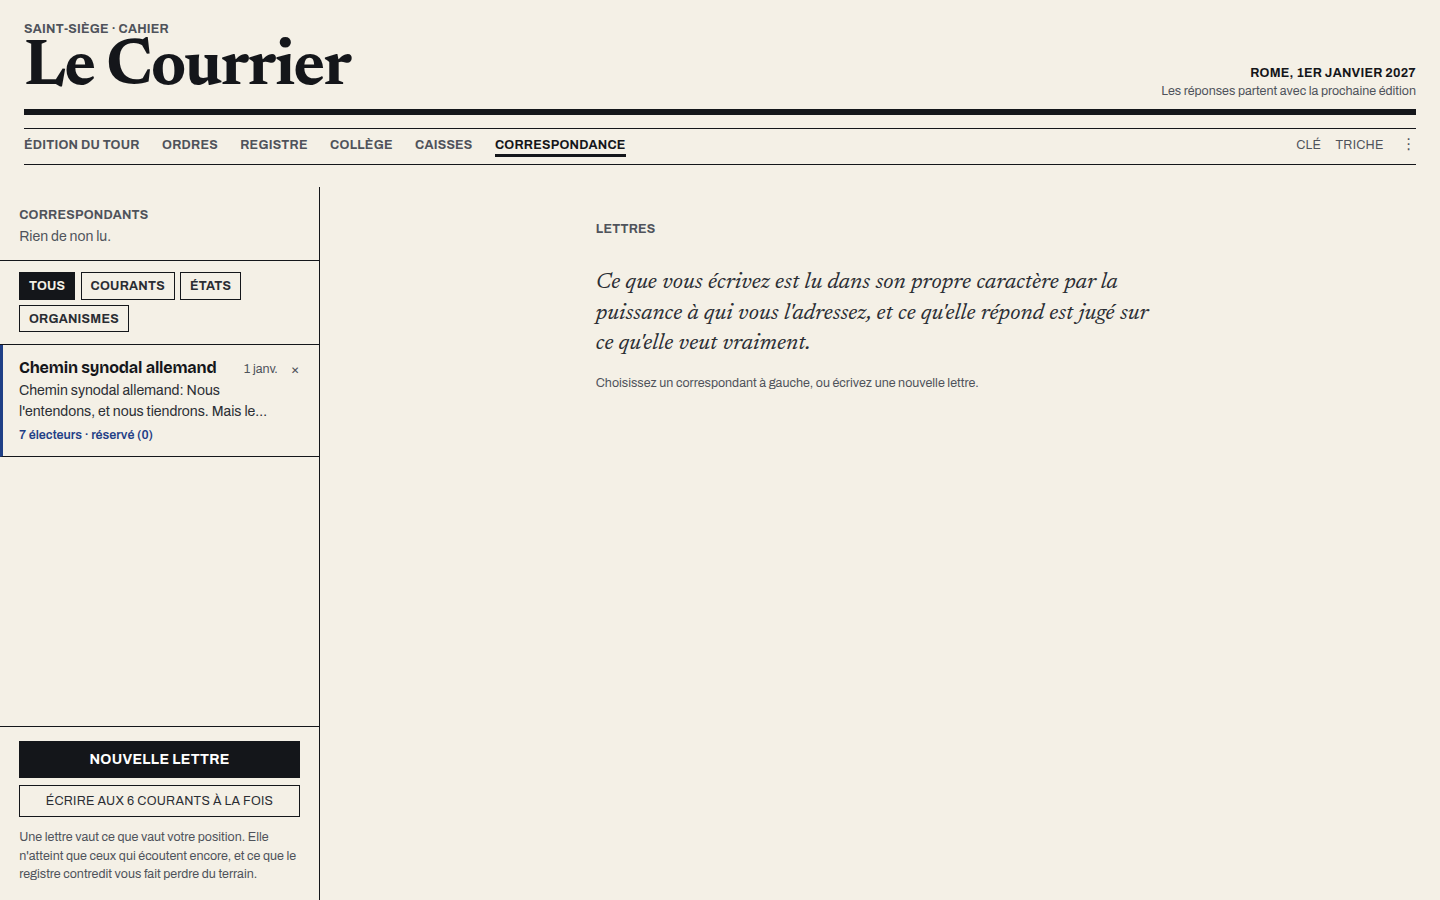
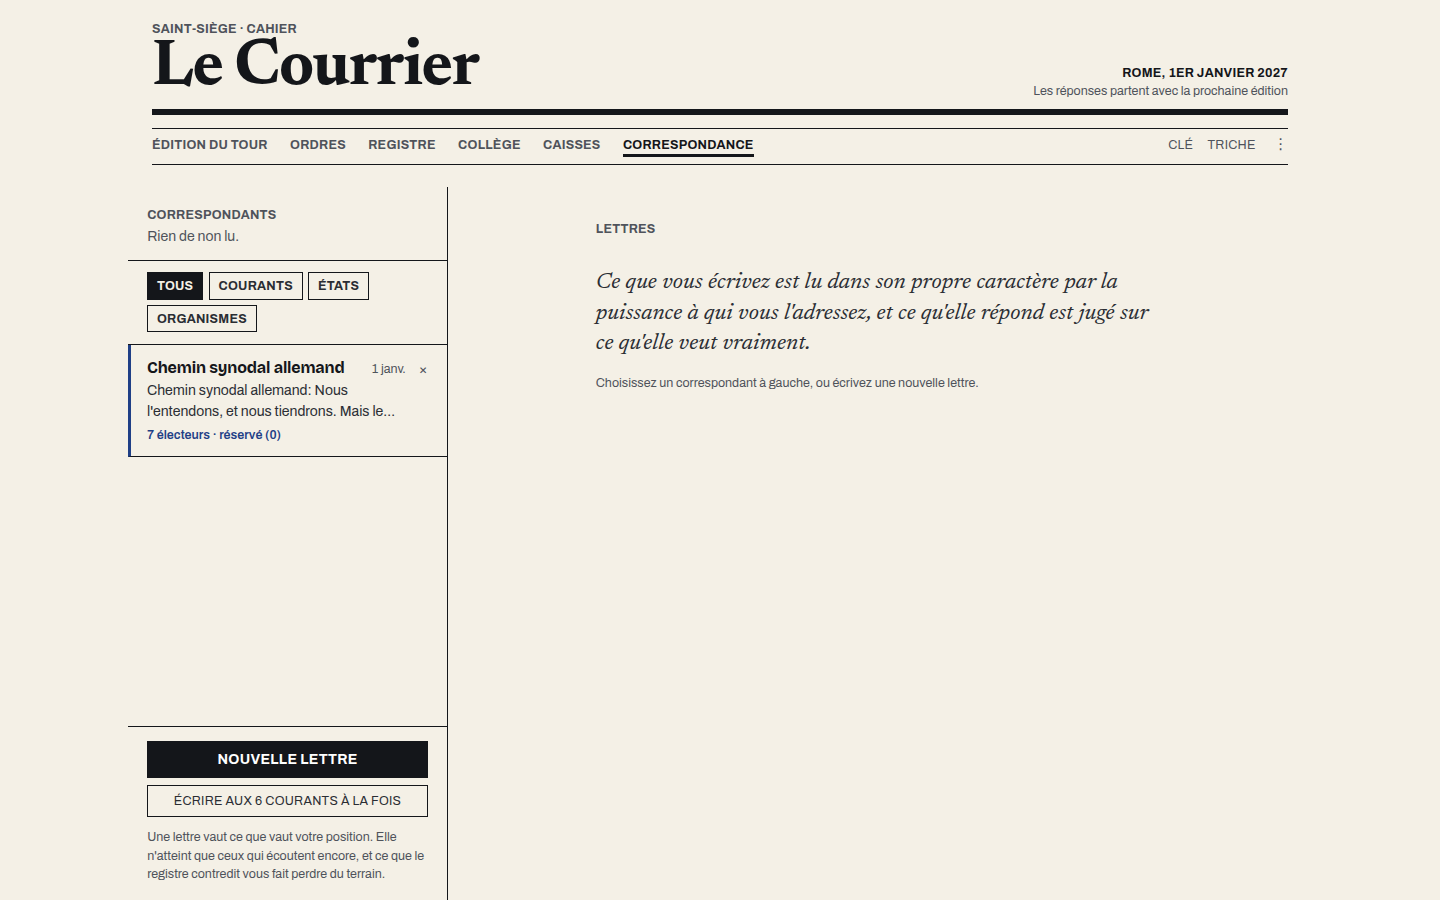
courrier : les distances n'étaient bonnes à aucune largeur
« Les distances ne sont toujours pas bonnes. » Trois fautes, sur la même
page, et la même cause : ce cahier ne partageait la mesure d'aucun autre.

**La feuille.** Les cinq autres cahiers tiennent dans 74 rem centrées ; le
Courrier partait du bord de l'écran. Sur un écran large, son bandeau faisait
mille neuf cents pixels de long là où « Les Ordres » en fait mille cent
quatre-vingts — deux pages du même journal, deux formats de papier. Le
papier couvre l'écran, la colonne tient dans 74 rem. Poser la mesure sur le
conteneur fixe lui-même laissait d'ailleurs le noir de la carte tout autour,
et ce journal n'est pas une feuille posée sur un bureau.

**Le bandeau du fil.** Il courait sur toute la largeur du volet pendant que
les lettres dessous tiennent dans 62 signes : « Opinion +66, vous suivrait
partout » finissait huit cents pixels à droite de la colonne qu'il coiffe,
et débordait de l'écran. Il prend leur mesure. Et les lettres étaient
bornées sans être centrées, lui l'était : cent cinquante pixels de décalage
entre un titre et ce qu'il annonce. Les trois — bandeau, fil, composeur —
sont sur le même axe.

**Le téléphone.** À 390 px, la grille à deux volets écrasait celui des
lettres à soixante-dix pixels : le texte y tombait à un mot par ligne. Un
seul volet à la fois — la liste tant qu'aucune lettre n'est ouverte, la
lettre ensuite ; ConversationView portait déjà le retour qu'il faut. Avec sa
gouttière, parce que les volets portent `padding-left: 0 !important` pour
[…]

diff --git a/src/Game/GameUI/correspondence.jsx b/src/Game/GameUI/correspondence.jsx
@@ -281,7 +281,18 @@ const Correspondence = ({ nav = null }) => {
     const activeNames = (activeChat?.countries ?? []).map((c) => c.name).join(", ");
 
     return (
-        <div data-surface="desk" style={{ background: "var(--oh-plate)", bottom: 0, color: "var(--oh-text)", display: "grid", gridTemplateColumns: "minmax(0, 1fr)", gridTemplateRows: "auto minmax(0, 1fr)", left: 0, overflow: "hidden", position: "fixed", right: 0, top: CONTENU_TOP, zIndex: 10002 }}>
+        // « Les distances ne sont toujours pas bonnes. » Ce cahier partait du
+        // bord de l'écran quand les cinq autres tiennent dans 74 rem centrées :
+        // sur un écran large, son bandeau faisait mille neuf cents pixels de
+        // long là où « Les Ordres » en fait mille cent quatre-vingts. Deux
+        // pages du même journal, deux formats de papier.
+        // Le papier couvre l'écran ; la COLONNE tient dans 74 rem, comme les
+        // cinq autres cahiers (voir Feuille dans cahiers.jsx). Poser la mesure
+        // sur le conteneur fixe lui-même laissait le noir de la carte tout
+        // autour : ce journal n'est pas une feuille posée sur un bureau, c'est
+        // la page entière.
+        <div data-surface="desk" style={{ background: "var(--oh-plate)", bottom: 0, color: "var(--oh-text)", left: 0, overflow: "hidden", position: "fixed", right: 0, top: CONTENU_TOP, zIndex: 10002 }}>
+        <div style={{ display: "grid", gridTemplateColumns: "minmax(0, 1fr)", gridTemplateRows: "auto minmax(0, 1fr)", height: "100%", margin: "0 auto", maxWidth: "74rem", position: "relative" }}>
         {/* Ce cahier n'avait pas de bandeau. Son titre vivait DANS la colonne
             des correspondants, en Bricolage et deux crans plus petit que « Les
             Ordres » ou « Le Registre » : la même page du même journal, dans une
@@ -296,7 +307,13 @@ const Correspondence = ({ nav = null }) => {
         />
         {nav && <div style={{ paddingTop: "0.8rem" }}>{nav()}</div>}
         </div>
-        <div style={{ display: "grid", gridTemplateColumns: "minmax(17rem, 20rem) minmax(0, 1fr)", minHeight: 0, overflow: "hidden" }}>
+        {/* Deux volets sur un écran de bureau, UN SEUL sur un téléphone : à
+            390 px, la grille écrasait le volet des lettres à soixante-dix
+            pixels et le texte tombait à un mot par ligne. Le volet montré est
+            celui qu'on regarde — la liste tant qu'aucune lettre n'est ouverte,
+            la lettre ensuite — et ConversationView portait déjà le retour qu'il
+            faut pour revenir (theme.css, @media max-width 40rem). */}
+        <div className="oh-courrier-volets" data-lettre-ouverte={activeChat ? "oui" : "non"} style={{ display: "grid", gridTemplateColumns: "minmax(17rem, 20rem) minmax(0, 1fr)", minHeight: 0, overflow: "hidden" }}>
 
         {/* ── The column of correspondents ─────────────────────────────────── */}
         <div style={{ borderRight: "1px solid var(--oh-line)", display: "flex", flexDirection: "column", minHeight: 0 }}>
@@ -394,7 +411,12 @@ const Correspondence = ({ nav = null }) => {
         <div className="oh-letters" style={{ display: "flex", flexDirection: "column", minHeight: 0, position: "relative" }}>
         {activeChat ? (
             <>
-            <div style={{ alignItems: "baseline", borderBottom: "1px solid var(--oh-line)", display: "flex", flexShrink: 0, gap: "1.5rem", justifyContent: "space-between", padding: "1.35rem 1.8rem 0.8rem" }}>
+            {/* Et cet en-tête courait sur toute la largeur du volet pendant que
+                les lettres dessous tiennent dans 62 signes : « Opinion +66, vous
+                suivrait partout » finissait huit cents pixels à droite de la
+                colonne qu'il coiffe, et débordait de l'écran. Il prend la mesure
+                des lettres, puisque c'est d'elles qu'il parle. */}
+            <div style={{ alignItems: "baseline", borderBottom: "1px solid var(--oh-line)", display: "flex", flexShrink: 0, gap: "1.5rem", justifyContent: "space-between", margin: "0 auto", maxWidth: "62ch", padding: "1.35rem 0 0.8rem", width: "100%" }}>
             <div style={{ minWidth: 0 }}>
             <div style={{ color: "var(--oh-text-strong)", fontFamily: "var(--oh-font-display)", fontSize: "var(--oh-t-lg)", fontWeight: 800, letterSpacing: "-0.03em", lineHeight: 1 }}>{activeNames}</div>
             <div style={{ color: "var(--oh-text-dim)", fontSize: "var(--oh-t-xs)", marginTop: "0.4rem" }}>
@@ -412,7 +434,7 @@ const Correspondence = ({ nav = null }) => {
             {activeStanding ? ` · ${activeStanding.seats} ${activeStanding.seats === 1 ? "électeur" : "électeurs"}` : ""}
             </div>
             </div>
-            <div style={{ color: "var(--oh-text-dim)", flexShrink: 0, fontSize: "var(--oh-t-xs)", lineHeight: 1.5, textAlign: "right" }}>
+            <div style={{ color: "var(--oh-text-dim)", flexShrink: 1, fontSize: "var(--oh-t-xs)", lineHeight: 1.5, minWidth: 0, textAlign: "right" }}>
             {activeStanding && (
                 <div>Opinion <b style={{ color: toneVar(activeStanding.tone) }}>{activeStanding.approval > 0 ? "+" : ""}{activeStanding.approval}, {activeStanding.mood}</b></div>
             )}
@@ -461,6 +483,7 @@ const Correspondence = ({ nav = null }) => {
             </div>
             </div>
         )}
+        </div>
         </div>
         </div>
     );

diff --git a/src/Game/GameUI/chat.jsx b/src/Game/GameUI/chat.jsx
@@ -911,7 +911,12 @@ const ConversationView = ({ chat, playerCountry, gameDate, onDelete, onBack, onM
                 // Une lettre se lit dans une colonne. Sans cette mesure, le fil
                 // courait jusqu'au bord sur quinze cents pixels, et « Opinion 0,
                 // réservé » se faisait couper au passage.
-                ...(page ? { maxWidth: "62ch" } : null) }}>
+                //
+                // Centrée, et pas seulement bornée : le bandeau du fil l'est,
+                // lui, et les deux se retrouvaient décalés de cent cinquante
+                // pixels — un titre qui ne surplombe pas la colonne qu'il
+                // annonce. « Les distances ne sont toujours pas bonnes. »
+                ...(page ? { margin: "0 auto", maxWidth: "62ch", width: "100%" } : null) }}>
             {countries.map((c) => (
                 <Letterhead key={c.name} name={c.name} head={letterheads[c.name]} flagUrl={letterheadFlags[c.name] ?? null} />
             ))}
@@ -954,7 +959,7 @@ const ConversationView = ({ chat, playerCountry, gameDate, onDelete, onBack, onM
                 )}
                 </div>
             ) : phase === "player" && !isLoading ? (
-                <div style={{ padding: page ? "1rem 0 1.2rem" : "1rem", borderTop: "1px solid var(--oh-line)", display: "flex", alignItems: page ? "flex-end" : "center", gap: "0.5rem", flexShrink: 0, ...(page ? { maxWidth: "62ch" } : null) }}>
+                <div style={{ padding: page ? "1rem 0 1.2rem" : "1rem", borderTop: "1px solid var(--oh-line)", display: "flex", alignItems: page ? "flex-end" : "center", gap: "0.5rem", flexShrink: 0, ...(page ? { margin: "0 auto", maxWidth: "62ch", width: "100%" } : null) }}>
                 <textarea
                 placeholder={page ? `Répondre à ${addressee}… (Maj+Entrée pour une nouvelle ligne)` : "Écrire une lettre…"}
                 rows={1} value={playerInput}

diff --git a/src/theme.css b/src/theme.css
@@ -594,6 +594,23 @@ button, input, textarea, select {
      gauche. Les deux premiers cahiers étaient perdus pour un joueur sur
      téléphone. À l'étroit, le rail commence au bord et défile normalement. */
   .oh-barre-cahiers { justify-content: flex-start !important; }
+
+  /* Le Courrier tient ses deux volets côte à côte. À 390 px, la grille écrasait
+     celui des lettres à soixante-dix pixels : le texte y tombait à un mot par
+     ligne, illisible. Un seul volet à la fois — la liste tant qu'aucune lettre
+     n'est ouverte, la lettre ensuite. Le retour existait déjà. */
+  /* Et une gouttière : les volets portent `padding-left: 0 !important` (plus
+     haut, pour que le fil colle au filet sur un écran large), si bien qu'à
+     l'étroit « Opinion 0, réservé » venait buter contre le bord de l'écran.
+     La marge se pose sur le conteneur, que cette règle-là ne touche pas. */
+  .oh-courrier-volets { grid-template-columns: minmax(0, 1fr) !important; padding: 0 1rem; }
+  /* Un filet de séparation n'a plus rien à séparer sur une seule colonne. */
+  .oh-courrier-volets > :nth-child(1) { border-right: 0 !important; }
+  /* `!important` parce que les deux volets portent leur `display` en style
+     EN LIGNE, qui l'emporte sur une feuille de style : sans lui, les deux
+     restaient là, simplement empilés. */
+  .oh-courrier-volets[data-lettre-ouverte="non"] > :nth-child(2) { display: none !important; }
+  .oh-courrier-volets[data-lettre-ouverte="oui"] > :nth-child(1) { display: none !important; }
 }
 
 /* ─── Le cahier des comptes ─────────────────────────────────────────────────

diff --git a/design/rendu/mobile/INDEX.md b/design/rendu/mobile/INDEX.md
@@ -1,6 +1,6 @@
 # Rendu réel — mobile (390×844)
 
-Capturé le 2026-09-11 15:34 · commit a727b66 · source http://localhost:4173
+Capturé le 2026-09-11 15:57 · commit 28accf9 · source http://localhost:4173
 
 Ces images sont le rendu réel du jeu dans un navigateur, pas une maquette.
 Une session sans navigateur (Claude Design) doit les lire avant de juger le graphisme.
@@ -16,10 +16,10 @@ Une session sans navigateur (Claude Design) doit les lire avant de juger le grap
 - `07-registre.png` — capturé, 93 Ko
 - `08-college.png` — capturé, 126 Ko
 - `09-caisses.png` — capturé, 75 Ko
-- `10-correspondance.png` — capturé, 73 Ko
-- `11-courrier-ouvert.png` — capturé, 68 Ko
+- `10-correspondance.png` — capturé, 51 Ko
+- `11-courrier-ouvert.png` — capturé, 83 Ko
 
-Total du lot : 1431 Ko.
+Total du lot : 1423 Ko.
 
 ## Polices
 

diff --git a/design/rendu/bureau/INDEX.md b/design/rendu/bureau/INDEX.md
@@ -1,6 +1,6 @@
 # Rendu réel — bureau (1440×900)
 
-Capturé le 2026-09-11 15:32 · commit a727b66 · source http://localhost:4173
+Capturé le 2026-09-11 15:59 · commit 28accf9 · source http://localhost:4173
 
 Ces images sont le rendu réel du jeu dans un navigateur, pas une maquette.
 Une session sans navigateur (Claude Design) doit les lire avant de juger le graphisme.
@@ -19,7 +19,7 @@ Une session sans navigateur (Claude Design) doit les lire avant de juger le grap
 - `10-correspondance.png` — capturé, 93 Ko
 - `11-courrier-ouvert.png` — capturé, 177 Ko
 
-Total du lot : 1901 Ko.
+Total du lot : 1900 Ko.
 
 ## Polices
 
